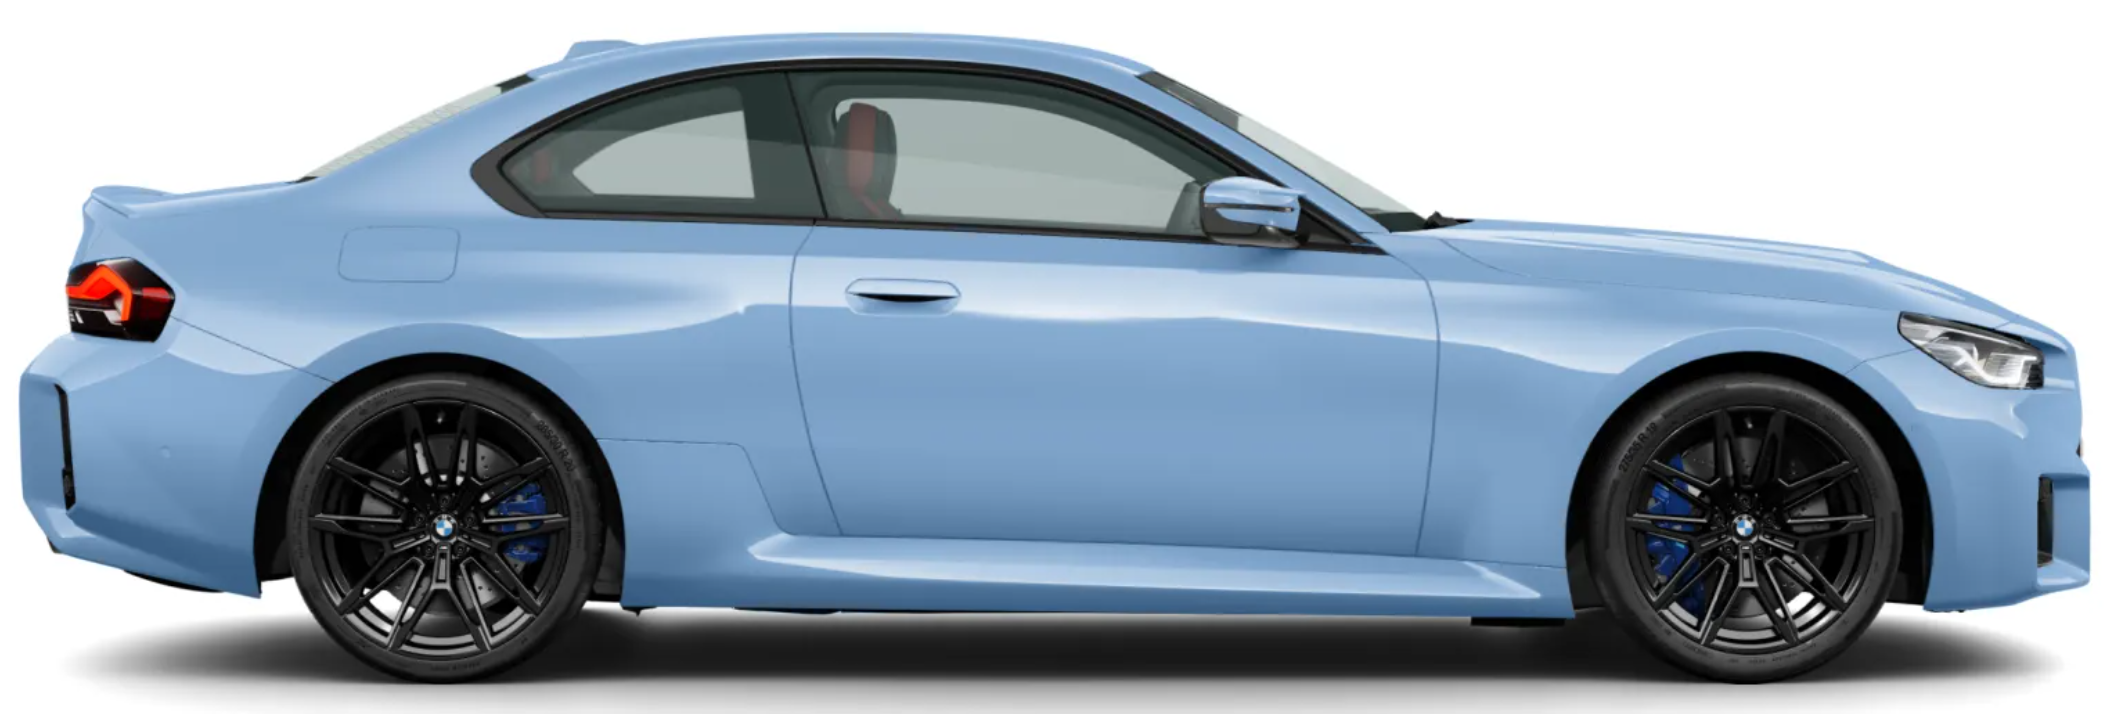
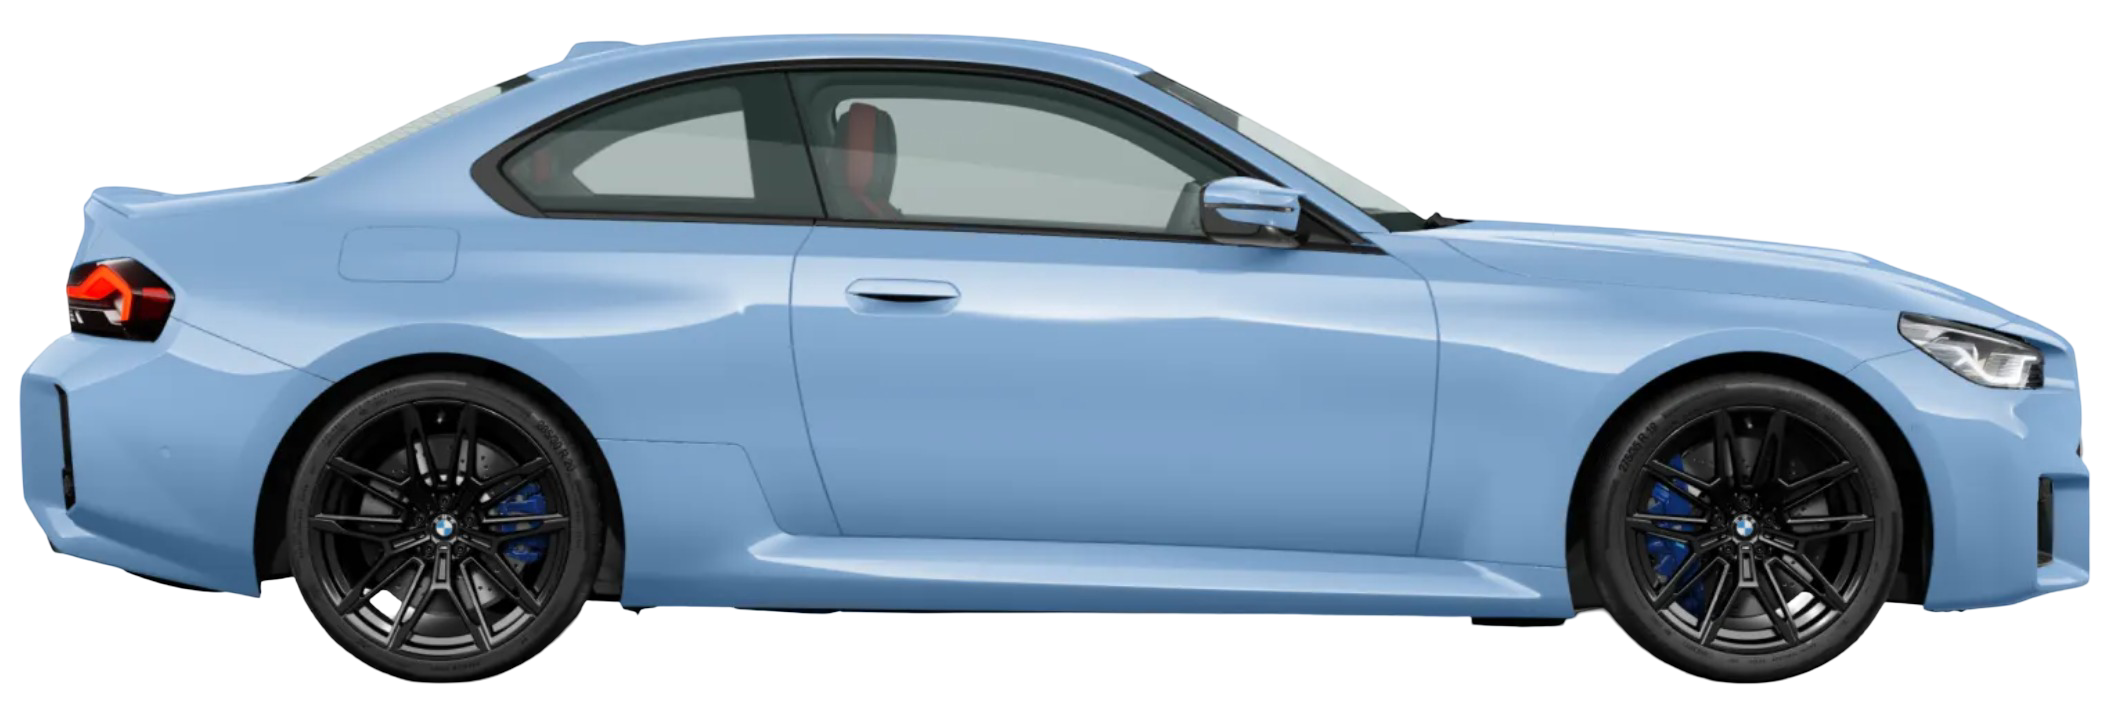
Enhance CarPage with background image animation and update car image dimensions; add backgroundImage property to car data for improved visual presentation.

Changed region(s): [[0.0311, 0.8319, 0.9651, 1.0], [0.0623, 0.8011, 0.0934, 0.8319]]

diff --git a/app/(root)/car/page.tsx b/app/(root)/car/page.tsx
@@ -22,6 +22,24 @@ const CarPage = () => {
 
   return (
     <div className="h-screen w-screen flex items-center justify-center relative">
+      <motion.img
+        initial={{
+          opacity: 0
+        }}
+        animate={{
+          opacity: 1
+        }}
+        transition={{
+          type: 'spring',
+          stiffness: 700,
+          damping: 50,
+          delay: 0.2
+        }}
+        src={car.backgroundImage}
+        height={1000}
+        width={1000}
+        className="absolute h-full w-full object-contain z-[-1]"
+      />
       <div className="absolute inset-0 z-0 ">
         {/* <p className={car.descriptionClassName}>{car.description}</p> */}
         <motion.div
@@ -53,7 +71,7 @@ const CarPage = () => {
         src={car.image}
         height={1000}
         width={1000}
-        className="w-[1100px] object-contain z-10"
+        className="w-full h-full object-contain z-10"
       />
       <div className="absolute inset-0 z-20">
         {/* <motion.div

diff --git a/data/car-wishlist.ts b/data/car-wishlist.ts
@@ -18,7 +18,8 @@ export const CAR_WISHLIST = [
   {
     name: 'Skyline GTR34',
     boldText: 'GTR34',
-    image: '/r34.png',
+    image: '/r34model.png',
+    backgroundImage: '/r34.jpg',
     price: '$145,000',
     description: "If one day speed kills me, don't cry because I was smiling."
   }
